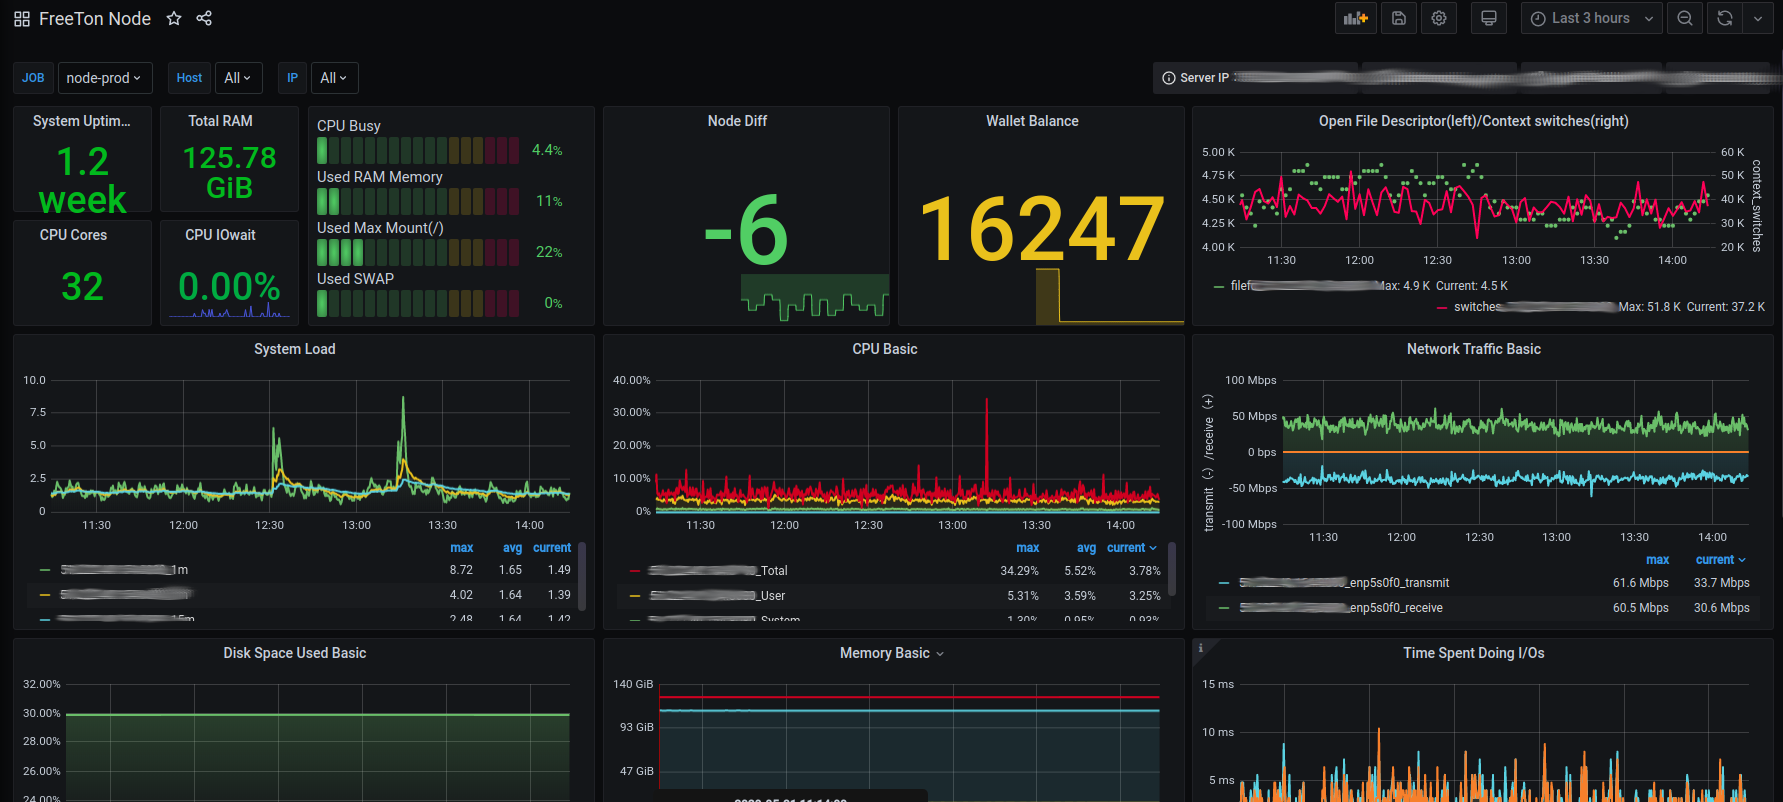
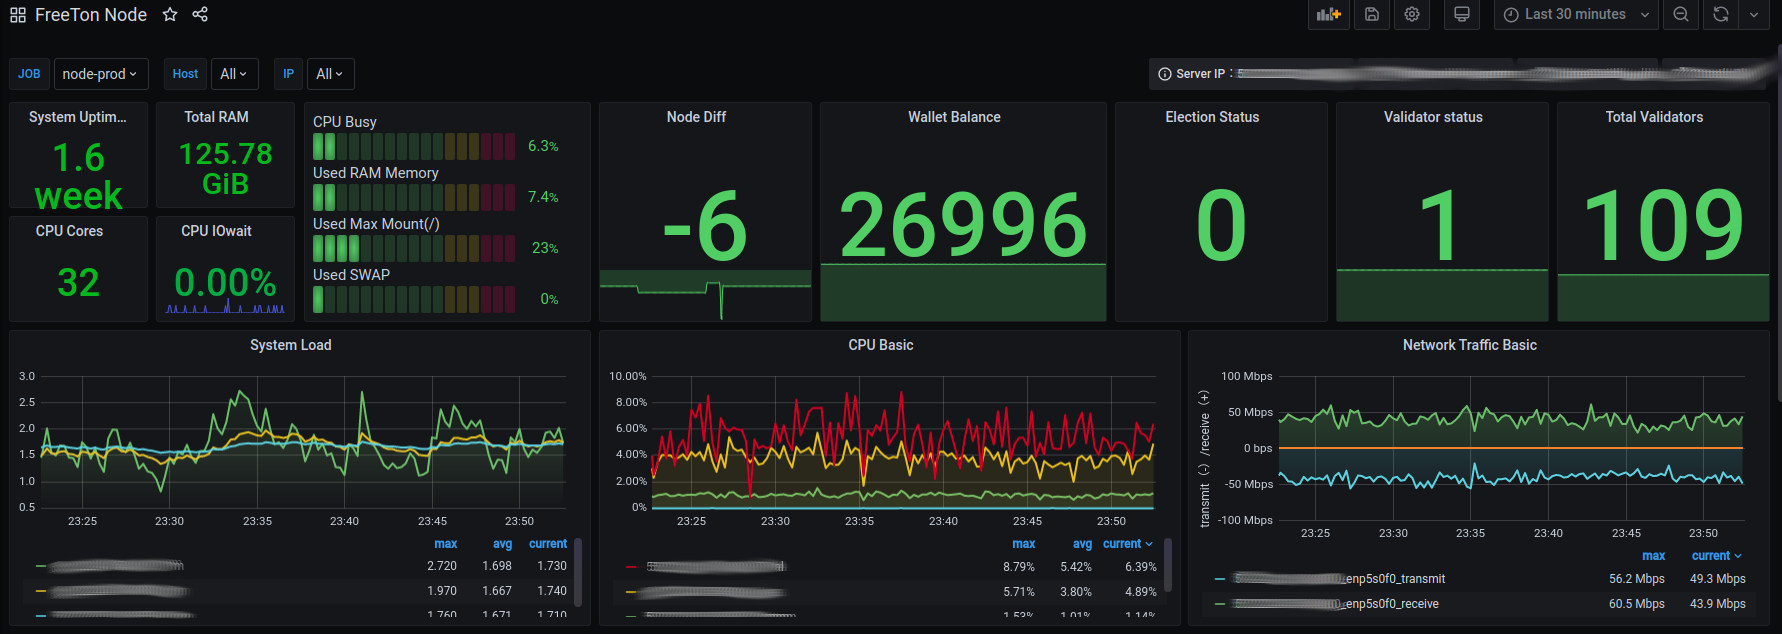
feature: screenshots new dashboards

diff --git a/README.md b/README.md
@@ -54,6 +54,8 @@ Roles of Ansible for install and monitor FreeTon node.
 
 ![Alt text](FreeTon.png?raw=true "Title")
 
+![Alt text](FreeTon2.png?raw=true "Title")
+
 ## todo:
 
 - Improve describe of the repository
